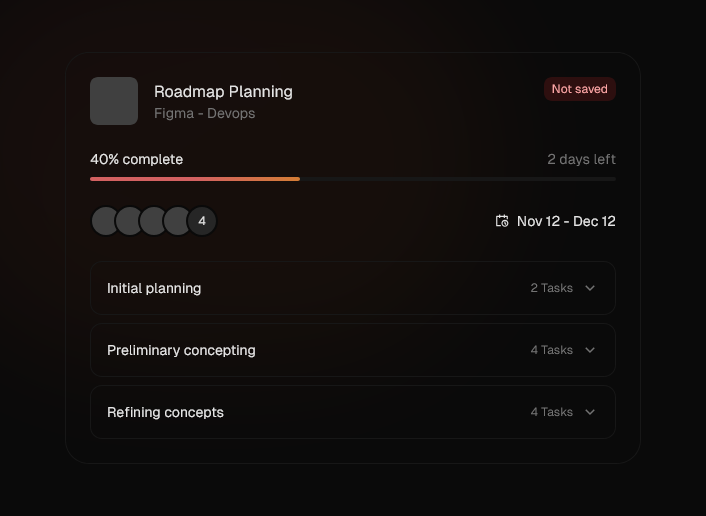
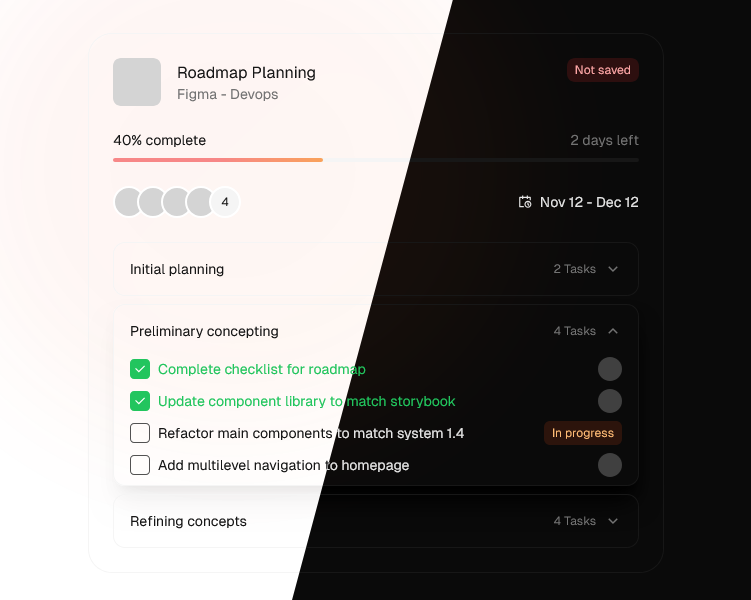
minor stuff

diff --git a/app/page.tsx b/app/page.tsx
@@ -4,6 +4,7 @@ import Image from "next/image";
 import projectCard from "@/images/front-end/project-card.png";
 
 import Link from "./components/link";
+import Pill from "./components/pill";
 
 export const metadata: Metadata = {
   title: "FEILVAN",
@@ -12,16 +13,36 @@ export const metadata: Metadata = {
 
 export default function Home() {
   return (
-    <div className="grid grid-cols-2 gap-1 p-1 sm:gap-2 sm:p-2">
-      <div className="relative overflow-hidden rounded-lg border border-neutral-200 dark:border-neutral-800">
-        <Link href="/front-end/project-card">
-          <Image
-            src={projectCard}
-            alt="Feilvan"
-            style={{ aspectRatio: projectCard.width / projectCard.height }}
-          />
-        </Link>
+    <>
+      <div className="mx-2 mb-4 mt-8 text-lg">Projects</div>
+      <div className="grid grid-cols-1 gap-1 sm:grid-cols-2 sm:gap-2">
+        <div className="relative overflow-hidden rounded-lg border border-neutral-200 transition-transform hover:scale-[.98] dark:border-neutral-800">
+          <Link href="/front-end/project-card">
+            <Image
+              src={projectCard}
+              alt="Feilvan"
+              style={{ aspectRatio: projectCard.width / projectCard.height }}
+            />
+          </Link>
+        </div>
       </div>
-    </div>
+      <div className="mx-2">
+        <div className="mb-4 mt-8 text-lg">Experience</div>
+        <div className="text-sm">
+          <div>Front-End Developer Intern</div>
+          <div>
+            Badan Pendidikan dan Pelatihan Keuangan, Kementerian Keuangan
+            Republik Indonesia
+          </div>
+          <div className="text-neutral-600 dark:text-neutral-400">
+            Feb 2023 - Jun 2023
+          </div>
+          <div className="mt-1 flex gap-x-2">
+            <Pill>React</Pill>
+            <Pill>Next.js</Pill>
+          </div>
+        </div>
+      </div>
+    </>
   );
 }

diff --git a/app/front-end/project-card/page.tsx b/app/front-end/project-card/page.tsx
@@ -1,6 +1,8 @@
 import { Metadata } from "next";
 import { RiCalendarScheduleLine } from "react-icons/ri";
 
+import Link from "@/components/link";
+
 import Wrapper from "../wrapper";
 import Item from "./item";
 import ProfilePicture from "./profile-picture";
@@ -18,18 +20,18 @@ export default function Page() {
       tags={["personal project", "mockup"]}
       description={
         <>
-          <a
+          <Link
+            external
             href="https://dribbble.com/shots/25062591-Dark-Mode-Project-Card"
             target="_blank"
             rel="noopener noreferrer"
-            className="underline"
           >
             Design by Monty Hayton
-          </a>
+          </Link>
         </>
       }
     >
-      <div className="flex h-full w-svw items-center justify-center text-sm">
+      <div className="grid h-full w-svw place-items-center text-sm">
         <div className="relative m-2 flex w-full max-w-xl flex-col gap-y-6 rounded-3xl border border-neutral-100 p-4 sm:p-6 dark:border-neutral-900">
           <div id="header" className="flex justify-between">
             <div className="flex items-center gap-x-4">
@@ -61,7 +63,7 @@ export default function Page() {
               <ProfilePicture />
               <ProfilePicture />
               <ProfilePicture />
-              <div className="flex aspect-square w-8 items-center justify-center rounded-full border-2 border-white bg-neutral-100 text-xs dark:border-neutral-950 dark:bg-neutral-800">
+              <div className="grid aspect-square w-8 place-items-center rounded-full border-2 border-white bg-neutral-100 text-xs dark:border-neutral-950 dark:bg-neutral-800">
                 4
               </div>
             </div>

diff --git a/app/front-end/wrapper.tsx b/app/front-end/wrapper.tsx
@@ -1,3 +1,5 @@
+import Pill from "@/components/pill";
+
 export default function Wrapper({
   children,
   title,
@@ -10,24 +12,21 @@ export default function Wrapper({
   description?: React.ReactNode;
 }) {
   return (
-    <div className="flex flex-col items-center font-sans">
-      <div className="mb-8 mt-16 w-full max-w-lg px-4 font-mono">
+    <div className="flex flex-grow flex-col items-center font-sans">
+      <div className="mb-8 mt-16 w-full px-4 font-mono">
         <h1 className="text-2xl">{title}</h1>
         {tags && (
-          <div className="flex flex-wrap">
+          <div className="mt-2 flex flex-wrap gap-x-2">
             {tags.map((tag) => (
-              <span
-                key={tag}
-                className="mr-2 mt-2 rounded-full bg-gray-100 px-2 py-1 text-xs dark:bg-neutral-800"
-              >
-                {tag}
-              </span>
+              <Pill key={tag}>{tag}</Pill>
             ))}
           </div>
         )}
         {description && <div className="mt-4 text-sm">{description}</div>}
       </div>
-      {children}
+      <div className="grid min-h-full flex-grow place-items-center">
+        {children}
+      </div>
     </div>
   );
 }

diff --git a/app/components/footer.tsx b/app/components/footer.tsx
@@ -54,6 +54,7 @@ export default function Footer() {
                       <motion.div
                         initial={{ opacity: 0, scale: 0.95 }}
                         animate={{ opacity: 1, scale: 1 }}
+                        transition={{ duration: 0.15 }}
                         className="absolute inset-0 z-0 h-full w-full rounded-lg border border-neutral-200 bg-white shadow-inner dark:border-neutral-700/40 dark:bg-neutral-800"
                       />
                     )}
@@ -76,7 +77,6 @@ export default function Footer() {
                         exit={{ opacity: 0, scale: 0.95, y: 8 }}
                         transition={{
                           duration: 0.15,
-                          ease: "easeOut",
                         }}
                       >
                         <div className="mb-2 flex w-80 flex-col gap-4 rounded-xl border border-neutral-200 bg-neutral-50/90 p-4 shadow-lg backdrop-blur transition dark:border-neutral-800 dark:bg-neutral-900/90">

diff --git a/app/front-end/project-card/item.tsx b/app/front-end/project-card/item.tsx
@@ -1,7 +1,7 @@
 "use client";
 
 import { AnimatePresence, motion } from "framer-motion";
-import { Children,useState } from "react";
+import { Children, useState } from "react";
 import { RiArrowDownSLine } from "react-icons/ri";
 
 export default function Item({
@@ -17,7 +17,7 @@ export default function Item({
   return (
     <div
       className={`rounded-xl border border-neutral-100 transition dark:border-neutral-900 ${
-        expanded ? "shadow-xl shadow-black/5 dark:shadow-black" : ""
+        expanded ? "shadow-xl shadow-black/5" : ""
       }`}
     >
       <button

diff --git a/app/front-end/project-card/sub-item.tsx b/app/front-end/project-card/sub-item.tsx
@@ -29,7 +29,7 @@ export default function SubItem({
     >
       <div className="flex flex-grow items-center gap-x-2">
         <div
-          className={`flex aspect-square min-w-5 items-center justify-center rounded border text-white ${
+          className={`grid aspect-square min-w-5 place-items-center rounded border text-white ${
             status === "completed"
               ? "border-transparent bg-green-500"
               : "border-neutral-600"

diff --git a/app/components/pill.tsx b/app/components/pill.tsx
@@ -1,0 +1,19 @@
+import { cn } from "@/utils";
+
+export default function Pill({
+  children,
+  className,
+  ...props
+}: React.HTMLAttributes<HTMLDivElement>) {
+  return (
+    <div
+      className={cn(
+        "w-fit rounded-full border border-neutral-500/20 bg-neutral-500/10 px-3 py-1 text-xs",
+        className,
+      )}
+      {...props}
+    >
+      {children}
+    </div>
+  );
+}

diff --git a/app/components/page-wrapper.tsx b/app/components/page-wrapper.tsx
@@ -18,7 +18,7 @@ export default function PageWrapper({
         initial={{ opacity: 0 }}
         animate={{ opacity: 1 }}
         transition={{ duration: 0.3, ease: "easeOut" }}
-        className="w-full max-w-screen-lg flex-grow"
+        className="flex w-full max-w-screen-lg flex-grow flex-col p-2 sm:p-2"
       >
         {children}
       </motion.main>

diff --git a/app/digital-imaging/page.tsx b/app/digital-imaging/page.tsx
@@ -6,7 +6,7 @@ import posts from "./posts";
 export default function DigitalImaging() {
   return (
     <>
-      <div className="grid grid-cols-2 gap-1 p-1 sm:gap-2 sm:p-2">
+      <div className="grid grid-cols-2 gap-1 sm:gap-2">
         {posts.map((post) => (
           <CardDialog
             key={post.date}

diff --git a/app/components/theme-toggle.tsx b/app/components/theme-toggle.tsx
@@ -8,6 +8,7 @@ export default function ThemeToggle() {
 
   return (
     <button
+      aria-label="Toggle theme"
       onClick={() => {
         if (theme === "light") {
           setTheme("dark");
